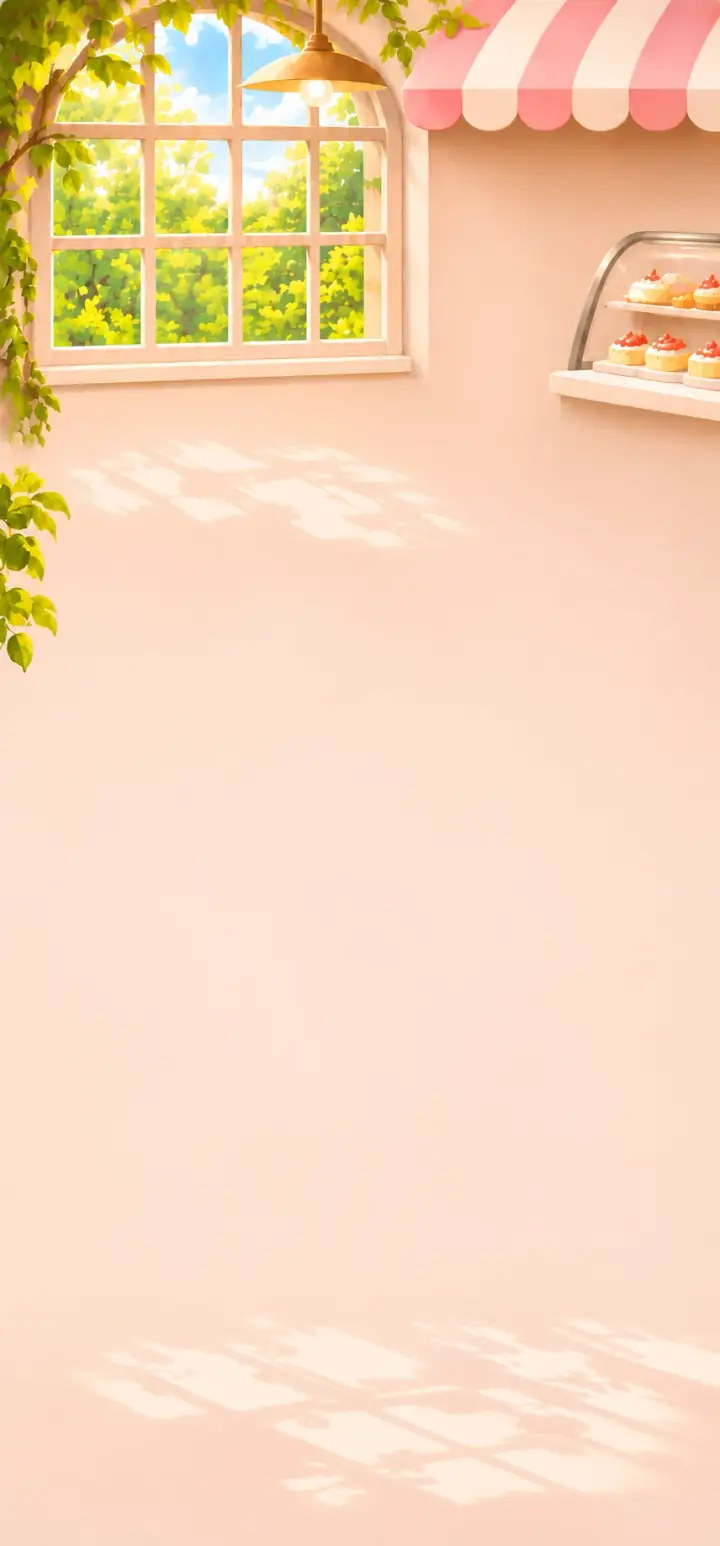
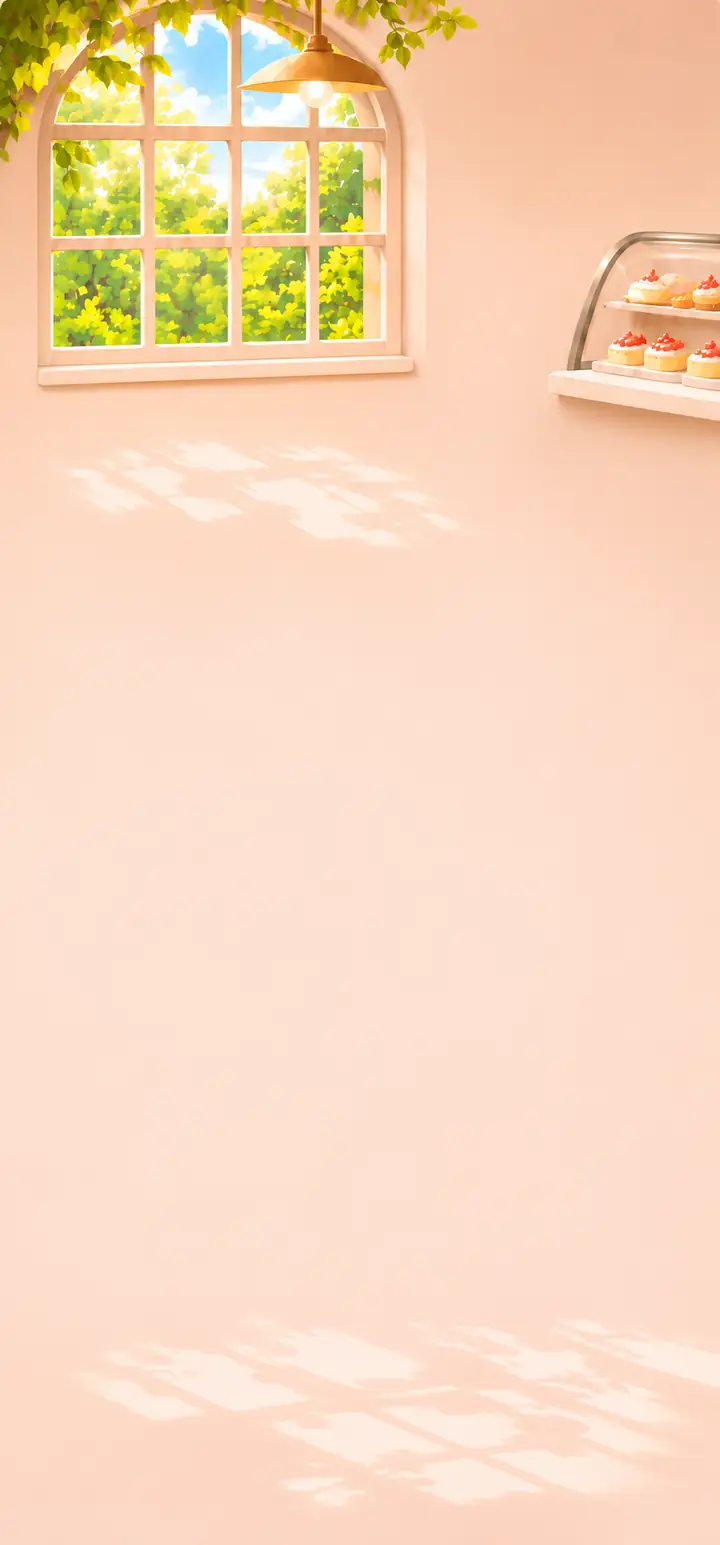
Polish cafe screens and speed up tray taps

diff --git a/src/pages/GamePage.tsx b/src/pages/GamePage.tsx
@@ -54,7 +54,8 @@ export function GamePage({ state, score, dispatch, onLevels, onNext }: Props) {
       dispatch(committedAction);
     });
     if (moved) {
-      const timer = setTimeout(() => { matchTimers.current.delete(timer); if (mounted.current) act({ type: 'MATCH_TRAY', donutId: moved.donutId }); }, MOVE_DURATION + 200);
+      const delay = window.matchMedia('(prefers-reduced-motion: reduce)').matches ? 0 : MOVE_DURATION + 35;
+      const timer = setTimeout(() => { matchTimers.current.delete(timer); if (mounted.current) act({ type: 'MATCH_TRAY', donutId: moved.donutId }); }, delay);
       matchTimers.current.add(timer);
     }
     void feedback.catch(() => undefined).finally(() => {
@@ -80,7 +81,6 @@ export function GamePage({ state, score, dispatch, onLevels, onNext }: Props) {
   const [presentedClear, setPresentedClear] = useState<GameState | null>(null);
   const waitingForGoodbye = status === 'clear' && presentedClear !== state;
   const showResult = !playing && !waitingForGoodbye;
-  const illustratedResult = showResult && (failed || status === 'clear');
   const stars = status === 'clear' ? getStars(state) : 0;
   const lastLevel = state.levelId === levels[levels.length - 1]?.id;
   useEffect(() => {
@@ -93,7 +93,7 @@ export function GamePage({ state, score, dispatch, onLevels, onNext }: Props) {
     if (showResult) resultHeading.current?.focus();
   }, [showResult, status]);
   return <main className={`game-page game-status--${waitingForGoodbye ? 'playing' : status}`} ref={root}>
-    {illustratedResult && <ShopAwning />}
+    {showResult && failed && <ShopAwning />}
     <GameHeader level={state.levelId} score={score} onBack={onLevels} />
     <p className="sr-only" role="status" aria-live="polite">주문 {state.completedOrders}개 완료. 트레이 {state.tray.length} / {state.trayCapacity}칸. 누적 점수 {score.toLocaleString('ko-KR')}점.</p>
     {showResult && <section className="result-panel" aria-labelledby="result-heading">
@@ -110,7 +110,7 @@ export function GamePage({ state, score, dispatch, onLevels, onNext }: Props) {
         {state.tray.slice(-6).map(donut => <Donut key={donut.id} type={donut.type} />)}
       </div>}
       {status === 'blocked' && <p>트레이를 확장하면<br />메뉴를 2개 더 담을 수 있어요!</p>}
-      {status === 'blocked' && <button type="button" className="expand-button" aria-label="2칸 늘리기" onClick={() => act({ type: 'EXPAND_TRAY' })}><span aria-hidden="true">+2</span> 늘리기</button>}
+      {status === 'blocked' && <button type="button" className="expand-button" onClick={() => act({ type: 'EXPAND_TRAY' })}>2칸 늘리기</button>}
       <div className="result-actions">
         {status === 'clear' && !lastLevel && <button className="primary-button" onClick={onNext}>다음 레벨 <Icon name="arrow" /></button>}
         <button className="secondary-button" onClick={() => act({ type: 'RESTART' })}><Icon name="retry" />다시 하기</button>

diff --git a/src/styles/main.scss b/src/styles/main.scss
@@ -140,7 +140,7 @@
   grid-template-columns: repeat(3, minmax(0, 1fr));
   gap: var(--gap);
   max-width: 390px;
-  margin: 10px auto;
+  margin: clamp(96px, 23dvh, 208px) auto 10px;
 }
 .level-option {
   display: grid;
@@ -160,13 +160,18 @@
 .level-stars { color: #b66b00; white-space: nowrap; font-size: clamp(14px, 4vw, 20px); }
 .level-stars span { color: #997762; }
 
+.level-page, .game-page {
+  background: #fae2d2 url('../assets/game/cafe.webp') center top / cover no-repeat;
+}
+.level-page {
+  padding-top: max(8px, env(safe-area-inset-top));
+}
 .game-page {
   height: 100dvh;
   display: flex;
   flex-direction: column;
   gap: var(--gap);
   padding-top: max(8px, env(safe-area-inset-top));
-  background: #fae2d2 url('../assets/game/cafe.webp') center top / cover no-repeat;
 }
 .game-status--playing { padding-bottom: 0; overflow: clip; }
 .game-page:has(> .shop-awning) { padding-top: 0; }
@@ -345,28 +350,18 @@
   bottom: calc(100% + 2px);
   display: inline-flex;
   align-items: center;
-  gap: 5px;
   min-height: 34px;
-  padding: 3px 9px 3px 4px;
-  border: 1px solid #fff5fe;
-  border-radius: 999px;
-  background: linear-gradient(145deg, #fff2fa, #e5d5ff);
-  color: #4f2b75;
-  box-shadow: 0 2px 4px #57367238;
+  padding: 4px 10px;
+  border: 1px solid #f6a9c2;
+  border-radius: 8px;
+  background: linear-gradient(150deg, #ffd9e7, #ffadd0);
+  color: #722341;
+  box-shadow: 0 2px 4px #873b5738;
   font-size: 12px;
   font-weight: 800;
   white-space: nowrap;
 }
-.expand-button span {
-  display: grid;
-  place-items: center;
-  min-width: 24px;
-  height: 24px;
-  border-radius: 50%;
-  background: #6a4796;
-  color: white;
-}
-.expand-button:disabled { padding-inline: 9px; background: #f2e9f5; color: #615166; }
+.expand-button:disabled { background: #f7e8eb; color: #765a63; }
 .tray-section--near-full { background: #fff0ec; border-color: #dc8a96; }
 .tray-warning {
   position: absolute;
@@ -409,8 +404,10 @@
   align-items: center;
   min-width: 0;
   padding: 2px 1px 0;
-  border: 0;
-  background: transparent;
+  border: 1px solid #e9c6ae;
+  border-radius: 9px 9px 0 0;
+  background: #fff5e76e;
+  touch-action: manipulation;
 }
 .queue-column:focus-visible { outline-offset: -3px; }
 .queue-column:not(:disabled):active .queue-front .donut { transform: translateY(2px); }
@@ -480,7 +477,7 @@
   .app-shell { width: min(100%, 820px); }
   .start-actions { width: min(86%, 230px); margin-bottom: max(16px, env(safe-area-inset-bottom)); }
   .start-poster { object-fit: contain; mask-image: none; }
-  .level-list { grid-template-columns: repeat(5, minmax(0, 1fr)); max-width: none; }
+  .level-list { grid-template-columns: repeat(5, minmax(0, 1fr)); max-width: none; margin-top: 42px; }
   .game-board { grid-template-rows: clamp(131px, 39dvh, 166px) auto minmax(0, 1fr); }
   .order-grid { max-width: 360px; margin-inline: auto; padding-bottom: 30px; }
   .display-shelf { height: 49px; width: min(100%, 360px); }

diff --git a/src/components/DonutTray.tsx b/src/components/DonutTray.tsx
@@ -7,7 +7,7 @@ export function DonutTray({ donuts, capacity, expandUsed, disabled, onExpand, in
   return <section className={`tray-section${nearFull ? ' tray-section--near-full' : ''}`} aria-label="트레이">
     {nearFull && <span className="tray-warning">{remaining}칸 남음</span>}
     <button type="button" className="expand-button" disabled={disabled || expandUsed} onClick={onExpand} aria-label={expandUsed ? '트레이 확장 사용 완료' : '2칸 늘리기'}>
-      {expandUsed ? '확장 완료' : <><span aria-hidden="true">+2</span> 늘리기</>}
+      {expandUsed ? '확장 완료' : '2칸 늘리기'}
     </button>
     <div className="tray"><ol className="tray-slots">{Array.from({ length: capacity }, (_, i) => <li key={i} data-tray-slot={i} data-token-id={donuts[i]?.id} aria-label={donuts[i] ? `${itemNames[donuts[i].type]}` : `빈칸 ${i + 1}`}>{donuts[i] ? <span className="tray-donut" style={{ visibility: inFlight?.has(donuts[i].id) ? 'hidden' : undefined }}><Donut type={donuts[i].type} /></span> : null}</li>)}</ol></div>
   </section>;

diff --git a/src/pages/LevelSelectPage.tsx b/src/pages/LevelSelectPage.tsx
@@ -1,12 +1,10 @@
 import { Icon } from '../components/Icon';
-import { ShopAwning } from '../components/ShopAwning';
 import { levels } from '../game/levels';
 import { isUnlocked } from '../game/session';
 
 export function LevelSelectPage({ onBack, onGame, stars }: { onBack: () => void; onGame: (id: number) => void; stars: Record<number, number> }) {
   const nextLevel = levels.find(level => isUnlocked(level.id, stars) && !stars[level.id]);
   return <main className="level-page shop-screen">
-    <ShopAwning />
     <header className="header-row">
       <button className="icon-button" onClick={onBack} aria-label="시작 화면으로 돌아가기"><Icon name="back" /></button>
       <h1>레벨 선택</h1>

diff --git a/src/effects/turnEffects.test.ts b/src/effects/turnEffects.test.ts
@@ -43,7 +43,7 @@ function scene(reduced = false) {
 }
 afterEach(() => vi.unstubAllGlobals());
 describe('빠른 이동과 깜빡임 방지', () => {
-  it('미매칭 도넛은 110ms 이동 후 도착 위치를 유지하며 정리 전에는 취소하지 않는다', async () => {
+  it('미매칭 도넛은 이동 후 도착 위치를 유지하며 정리 전에는 취소하지 않는다', async () => {
     const s = scene(); const effects = createEffects();
     await effects.play(s.root, s.state, [{ type: 'moved', donutId: s.source.dataset.tokenId ?? '', queueIndex: 0 }]);
     expect(s.calls).toHaveLength(1);

diff --git a/src/effects/turnEffects.ts b/src/effects/turnEffects.ts
@@ -1,7 +1,7 @@
 import type { GameEvent } from '../game/engine';
 import type { GameState } from '../game/types';
 
-export const MOVE_DURATION = 110;
+export const MOVE_DURATION = 75;
 export const MATCH_DURATION = 160;
 
 export function createEffects() {
